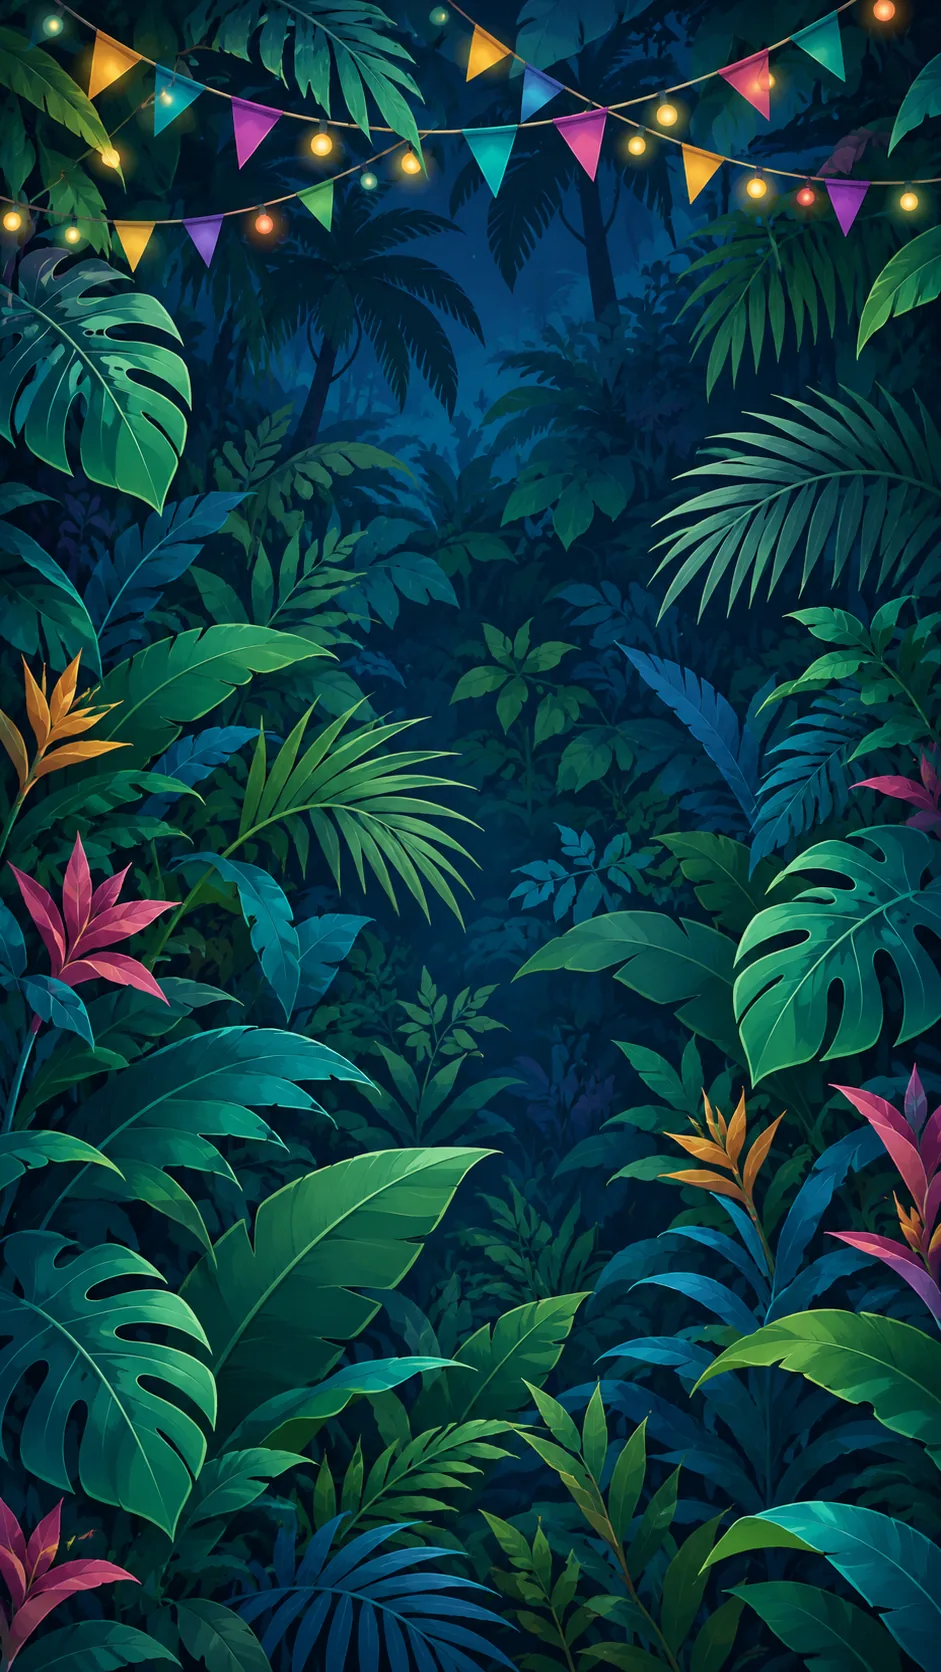
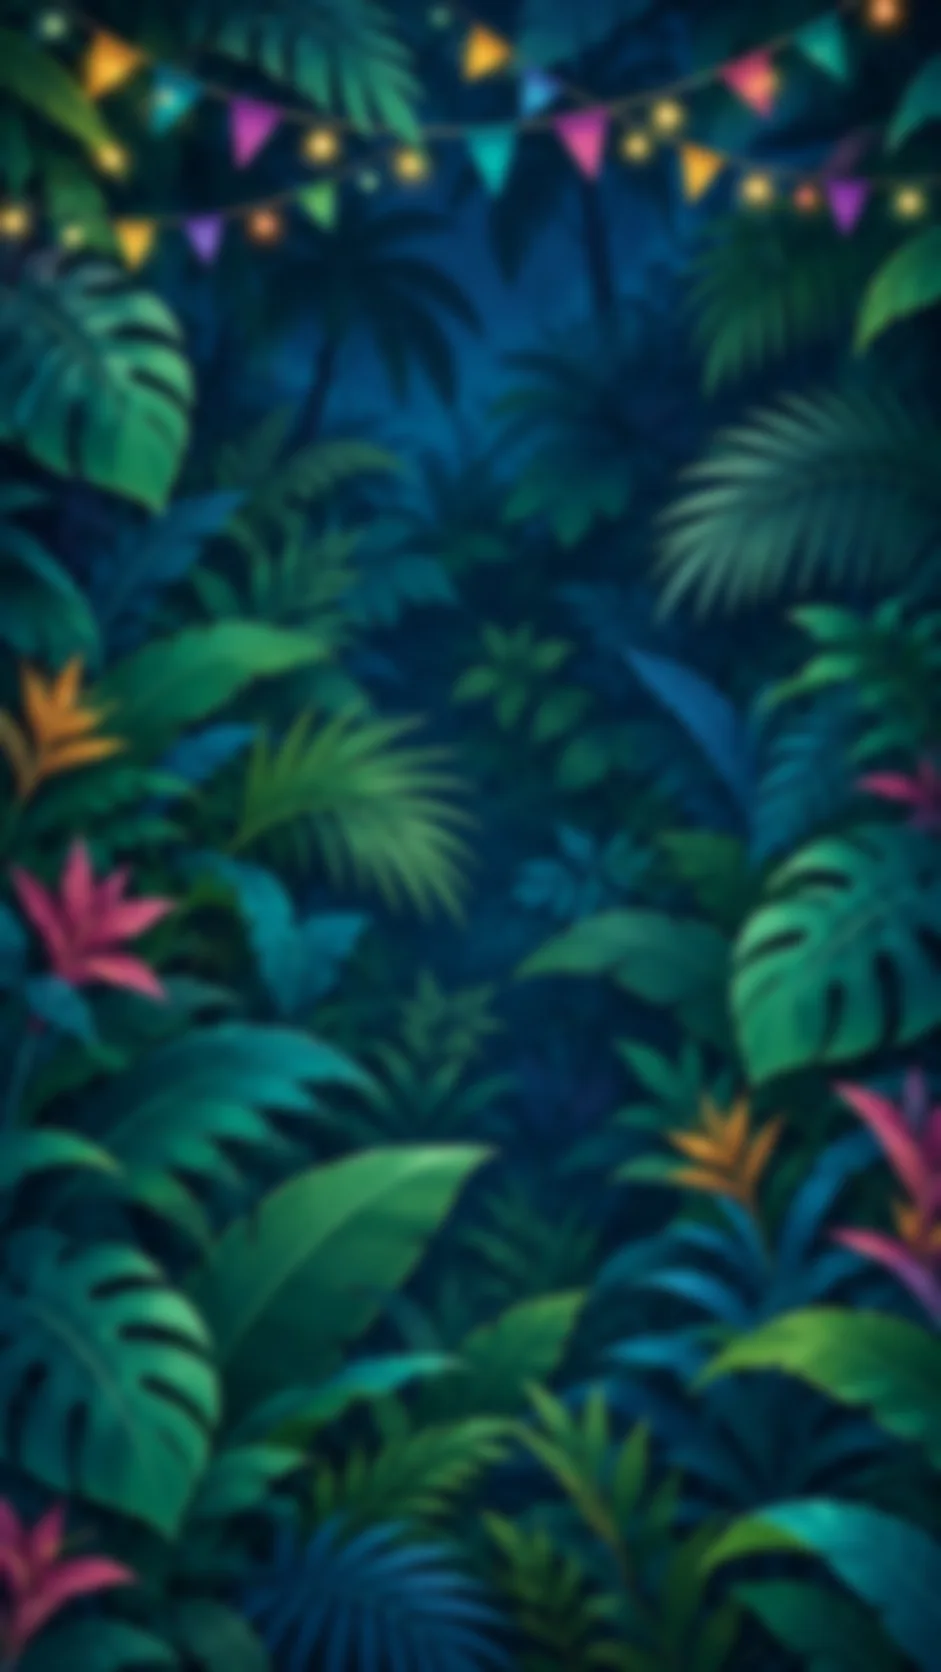
perf(ui): preblur operational WebP instead of filtering full stage

diff --git a/src/index.css b/src/index.css
@@ -79,18 +79,17 @@
       url('./assets/brand/camaleonte-tropical-background.webp');
   }
 
-  /* Only the operational layer is softened: enough detail remains to retain
-     the festive jungle, without drawing the eye away from inputs and cards.
-     12px overscan conceals the blurred edges and keeps the stage seam-free. */
+  /* The operational WebP already contains a modest Gaussian blur.
+     No full-screen runtime filter is needed during navigation or scrolling.
+     A small 2px bleed hides fractional WebView edges. */
   .app-stage::after {
-    top: -12px;
-    left: -12px;
-    width: calc(100% + 24px);
-    height: calc(var(--stage-scene-height, 100%) + 24px);
+    top: -2px;
+    left: -2px;
+    width: calc(100% + 4px);
+    height: calc(var(--stage-scene-height, 100%) + 4px);
     background-image:
       linear-gradient(180deg, rgba(8, 13, 30, .46), rgba(8, 13, 30, .56) 40%, rgba(8, 13, 30, .66) 70%, rgba(8, 13, 30, .76)),
       url('./assets/brand/camaleonte-operational-background.webp');
-    filter: blur(3px);
     opacity: 1;
   }
 
